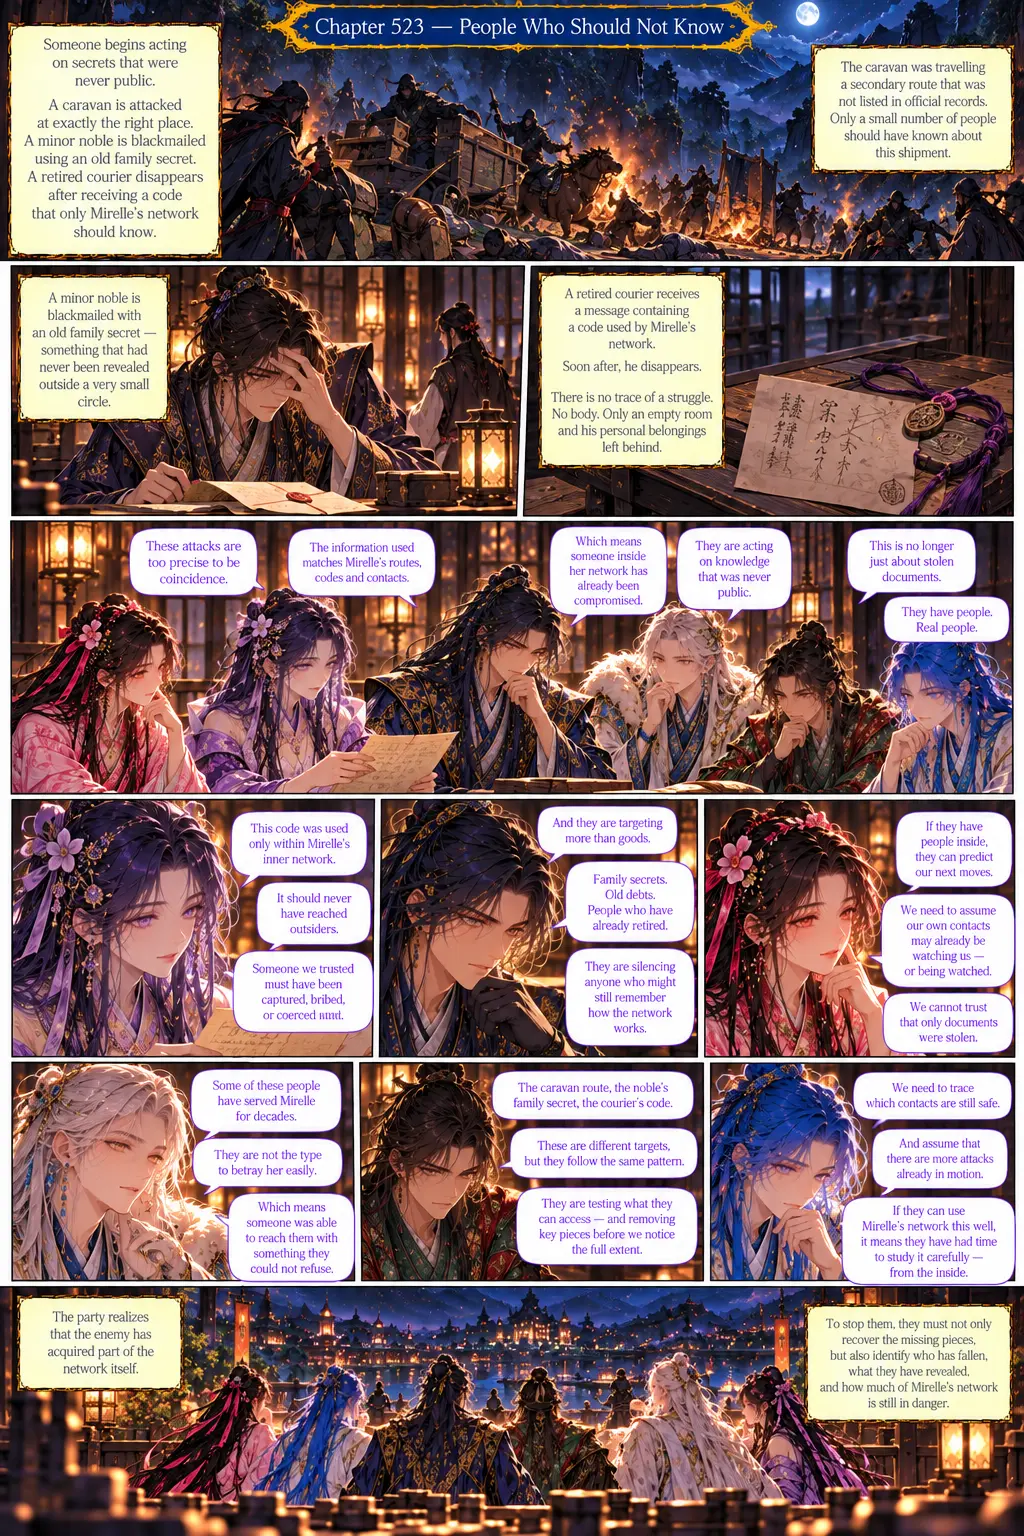
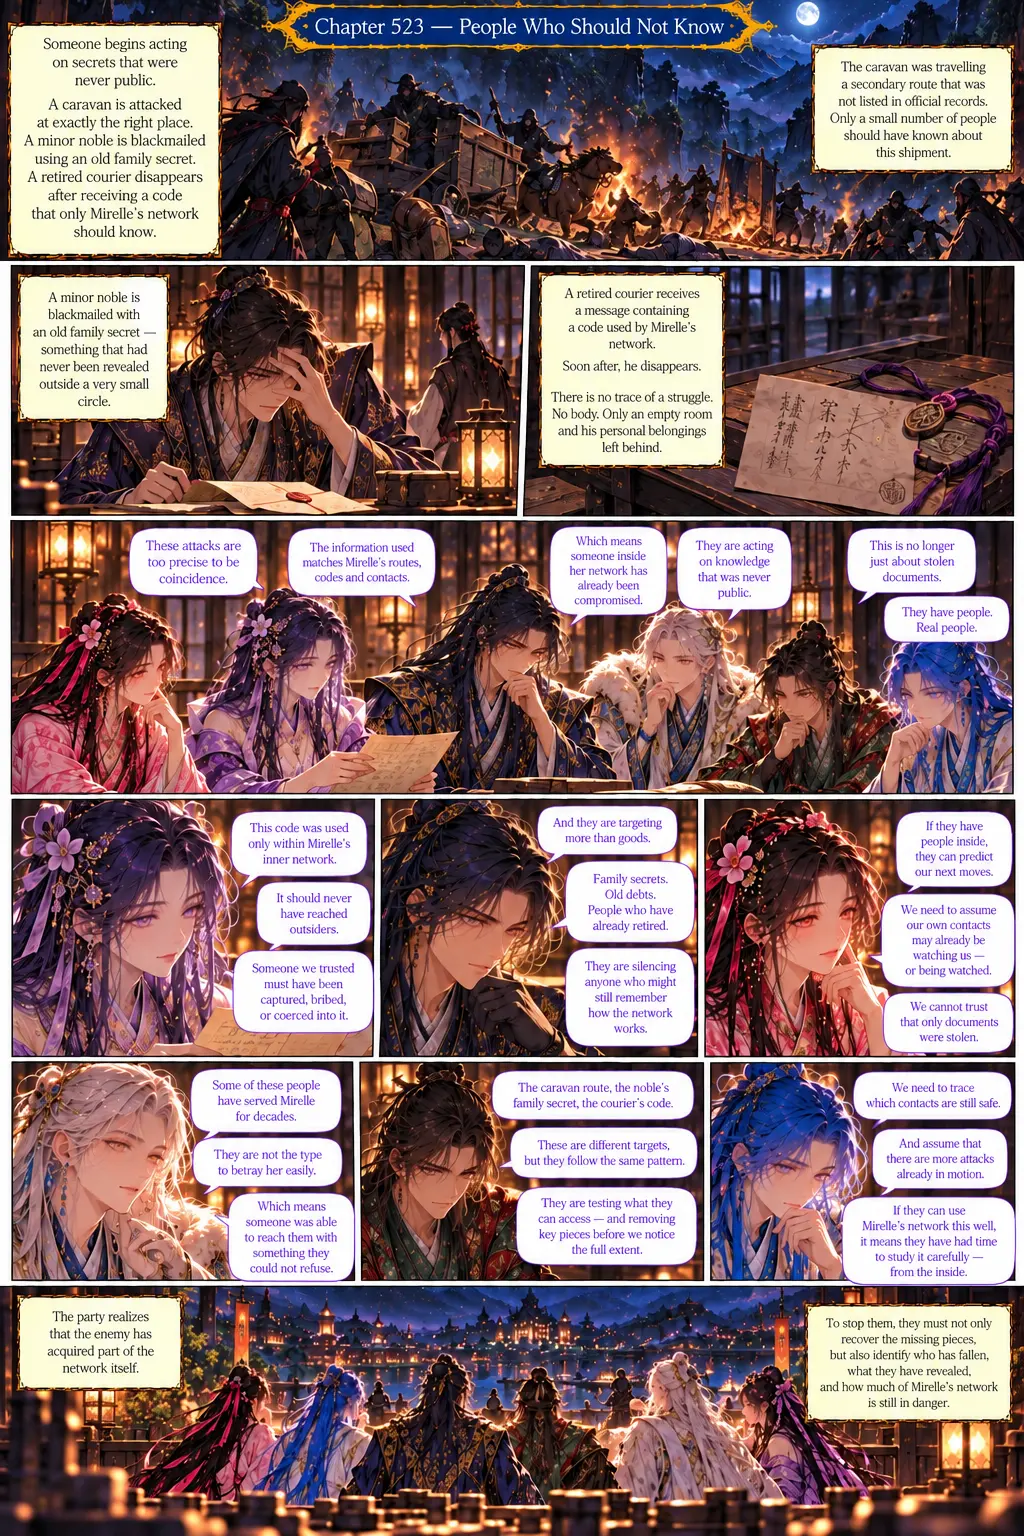
Replace chapter 523 with the regenerated page
Claude-Session: https://claude.ai/code/session_01JgCx3Matg4MVjEr67ncDB4

Changed region(s): [[0.0, 0.0, 1.0, 1.0]]

diff --git a/sw.js b/sw.js
@@ -1,5 +1,5 @@
 /* Tribute service worker: app shell is cached for offline play; images and other assets are cached as you play. */
-const VERSION = 'tribute-v183';
+const VERSION = 'tribute-v184';
 const SHELL = ['./', './index.html', './styles.css', './manifest.webmanifest',
   './scripts/chapters.js','./scripts/characters.js','./scripts/skilltree.js','./scripts/core.js','./scripts/enemies.js','./scripts/battle.js','./scripts/autobattle.js',
   './scripts/journal.js','./scripts/world.js','./scripts/world-ui.js','./scripts/maps.js','./scripts/voyage.js','./scripts/family.js','./scripts/raid.js','./scripts/network.js','./scripts/evils.js','./scripts/relations.js','./scripts/relroute.js','./scripts/aster.js','./scripts/arc20guests.js','./scripts/arc20allies.js','./scripts/mirelle.js','./scripts/regard.js','./scripts/whispers.js','./scripts/chronicle.js','./scripts/salary.js','./scripts/apprentice.js','./scripts/banter.js','./scripts/corruption.js','./scripts/explore.js','./scripts/arcs.js','./scripts/base.js','./scripts/skirmish.js','./scripts/items.js','./scripts/gear.js','./scripts/loot.js','./scripts/gates.js','./scripts/standing.js','./scripts/overheard.js','./scripts/deeds.js','./scripts/estates.js','./scripts/archive.js','./scripts/sunken.js','./scripts/passages.js','./scripts/codex.js','./scripts/growth.js','./scripts/echoes.js','./scripts/vows.js','./scripts/outfits.js','./scripts/royals.js','./scripts/arc9.js','./scripts/residents.js','./scripts/routes.js','./scripts/timed.js','./scripts/ways.js','./scripts/repute.js','./scripts/regmarks.js','./scripts/altan.js','./scripts/veyne.js','./scripts/horizons.js','./scripts/roc.js','./scripts/rewards.js','./scripts/tracker.js',

diff --git a/docs/ARC_XXI_PLAN.md b/docs/ARC_XXI_PLAN.md
@@ -21,7 +21,7 @@ Rheon: STORY_ALONG row from 519 (he officially joins at 520). The Whispering Mas
 - 526 shows a falcon on a companion's arm (Sky) among the riders.
 - 531 does not contain the chicken Jade and Roc fought over: the author confirms this is the revised version and **the chicken goes in the next arc (Arc XXII)**, so nothing is missing from 531. Only "wanted to live", "called for help" and the blurred mercenary appear, as the author asked. The Xuanji truth is not revealed. The page's closing "You are very late" is Jade's line to the Evil. Its memories (Vigil with Roc, the mission before the Guard, Xima, Sky, Dima) are summarised without detail.
 - 537 (regenerated by the author): Mirelle now appears and speaks; the earlier mismatch is resolved.
-- Typos in the art (529 regenerated and fixed by the author): 523 ("nmt"; regenerated, still has a title typo "Vo" and Mirelle at the table before ch533), 530 ("beafraid", "ownsecrets"), 531 ("The called", "mercenary is identity"), 516 ("fargmented"). The in-game text is corrected.
+- Typos in the art (529 regenerated and fixed by the author): 523 ("nmt"; regenerated and fixed by the author), 530 ("beafraid", "ownsecrets"), 531 ("The called", "mercenary is identity"), 516 ("fargmented"). The in-game text is corrected.
 - 526 and 534 are Rheon and Mirelle scenes: 526 "not love yet", 534 flirtatious banter. 527 is Jade and Devon. 535 is Mirelle and Sally. Mirelle's Information Network and Sally's Rumour Network are compared in 522 and 535; no game mechanic is built for the combined network yet.
 
 **Next arc (Arc XXII) to remember:** the chicken Jade and Roc fought over comes back there, as the memory Jade holds more clearly than the blurred mercenary's face. Roc as the mercenary stays only a suggestion, and the House Xuanji truth stays hidden until the author reveals it.
